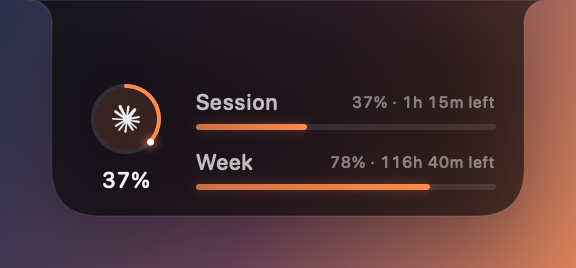
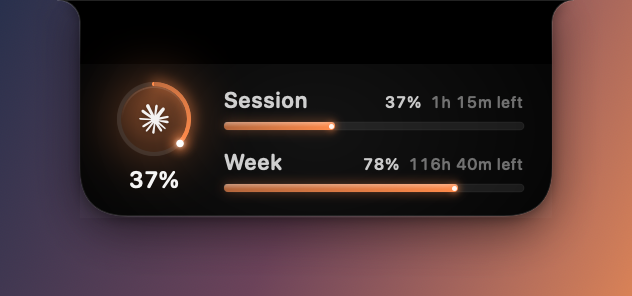
Release Usage HUD v0.8.0
Six notch tray themes and the Dark Tray option, with a README that leads with the highlights and shows every theme in one sheet.

Claude-Session: https://claude.ai/code/session_01GGHBoVcf1z2bcrmRPZrThN

diff --git a/README.md b/README.md
@@ -25,6 +25,18 @@ you run low or a window resets.
 Everything runs on your Mac. No server, no account, no analytics, no separate API key. It reuses
 the CLI sign-ins you already have.
 
+## Highlights
+
+- **Three ways to look.** A full HUD with a card per provider, a compact strip mode, and a
+  notch tray that drops down when you point at the camera housing.
+- **Six tray themes.** Classic rings, an instrument dial, glass capsules, a concentric gauge, a
+  typographic ledger, or segmented cells. Pick one in Settings, on glass or matte black.
+- **Live countdowns.** Every window shows the time to its reset, and the menu bar can read
+  `C72 · A39 · K84` next to the gauge.
+- **Alerts.** Notifications when a provider runs low and when a window resets.
+- **Private by design.** No server, no account, no analytics. Credentials only ever go to
+  each provider's own usage endpoint.
+
 ## Install
 
 1. Download the zip from the [latest release](https://github.com/SmoothLayers/usagehud/releases/latest)
@@ -59,8 +71,9 @@ requests and chains an existing `ccstatusline` setup instead of replacing it.
 
 ## Notch mode
 
-Turn on Notch Mode and the HUD gets a second home. Point at the camera housing and a tray slides
-out from under it with a gauge ring per provider. Move away and it retracts.
+Turn on Notch Mode and the HUD gets a second home. Point at the camera housing and the notch
+wakes with a hairline of provider colour, then a tray slides out from under it with a gauge per
+provider. Move away and it retracts.
 
 <div align="center">
 <img src="artifacts/notch-tray.png" alt="The notch tray expanded, showing Codex, Claude, and Kimi rings with remaining percentages" width="500">
@@ -73,6 +86,27 @@ zone at the top centre of the screen.
 <div align="center">
 <img src="artifacts/notch-detail.png" alt="The notch tray with the Claude ring hovered, showing session and weekly bars with reset countdowns" width="500">
 </div>
+
+### Tray themes
+
+The tray comes in six designs. Settings → Display → Notch Tray switches between them, and the
+tray resizes to fit whichever you pick.
+
+<div align="center">
+<img src="artifacts/notch-themes.png" alt="The six notch tray themes: Classic, Instrument, Capsule, Concentric, Ledger, and Segmented" width="900">
+</div>
+
+| Theme | The idea |
+|-------|----------|
+| Classic | Glowing arcs on lit ring faces, the percent underneath |
+| Instrument | Hairline dials on a tick track with monospaced figures, like a watch face |
+| Capsule | Three glass pills; hover one and it grows across the row while the others fold to their marks |
+| Concentric | One gauge of nested arcs with a legend beside it, the most compact read of all three |
+| Ledger | No rings: large figures in hairline columns with a line of progress under each |
+| Segmented | Rings of discrete cells that light up one by one, the last one white |
+
+**Dark Tray**, just below the theme picker, swaps the glass material for matte black behind the
+icons, the same black as the housing itself.
 
 ## Compact mode
 
